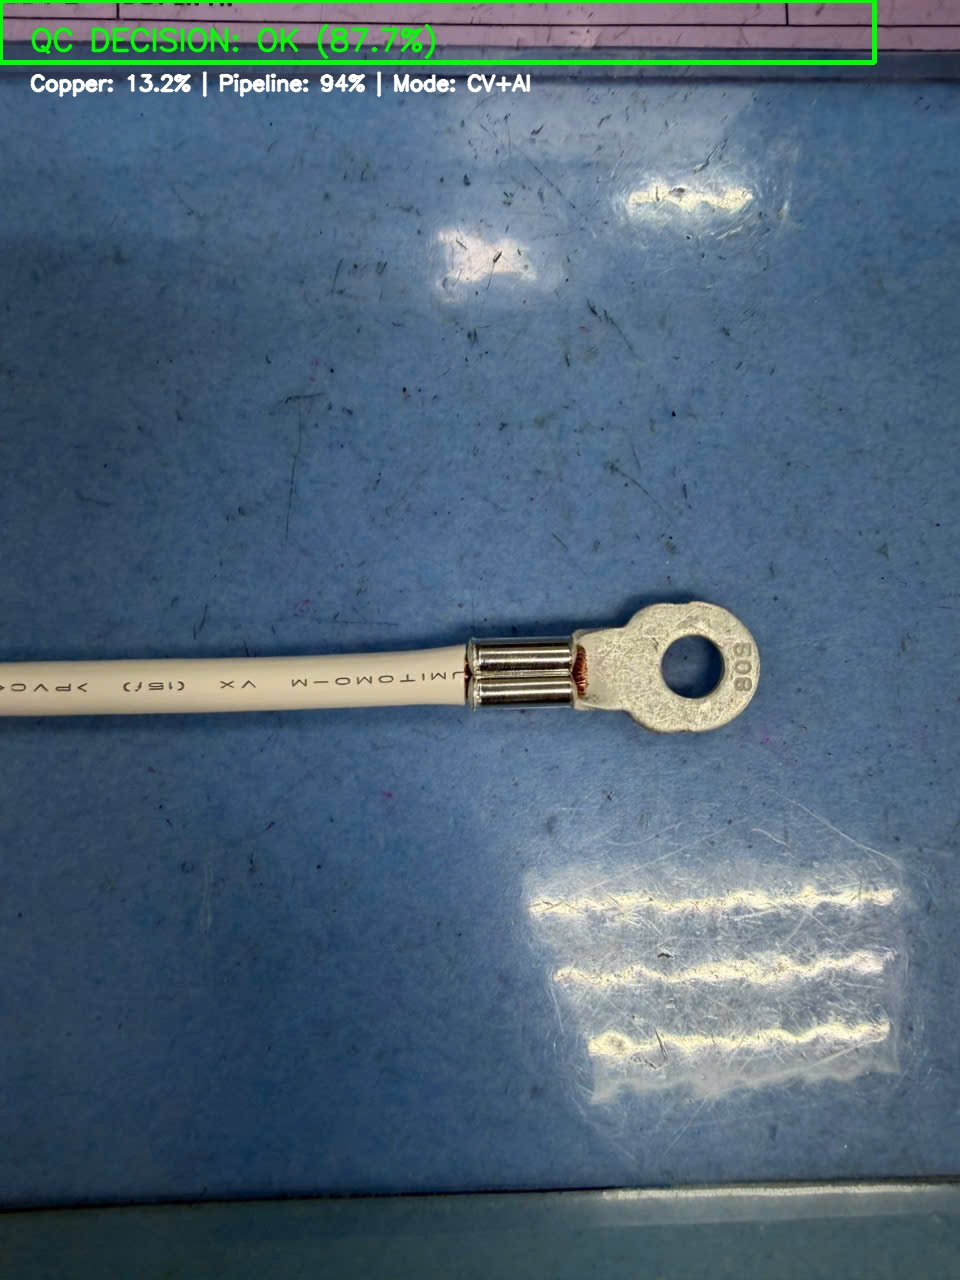
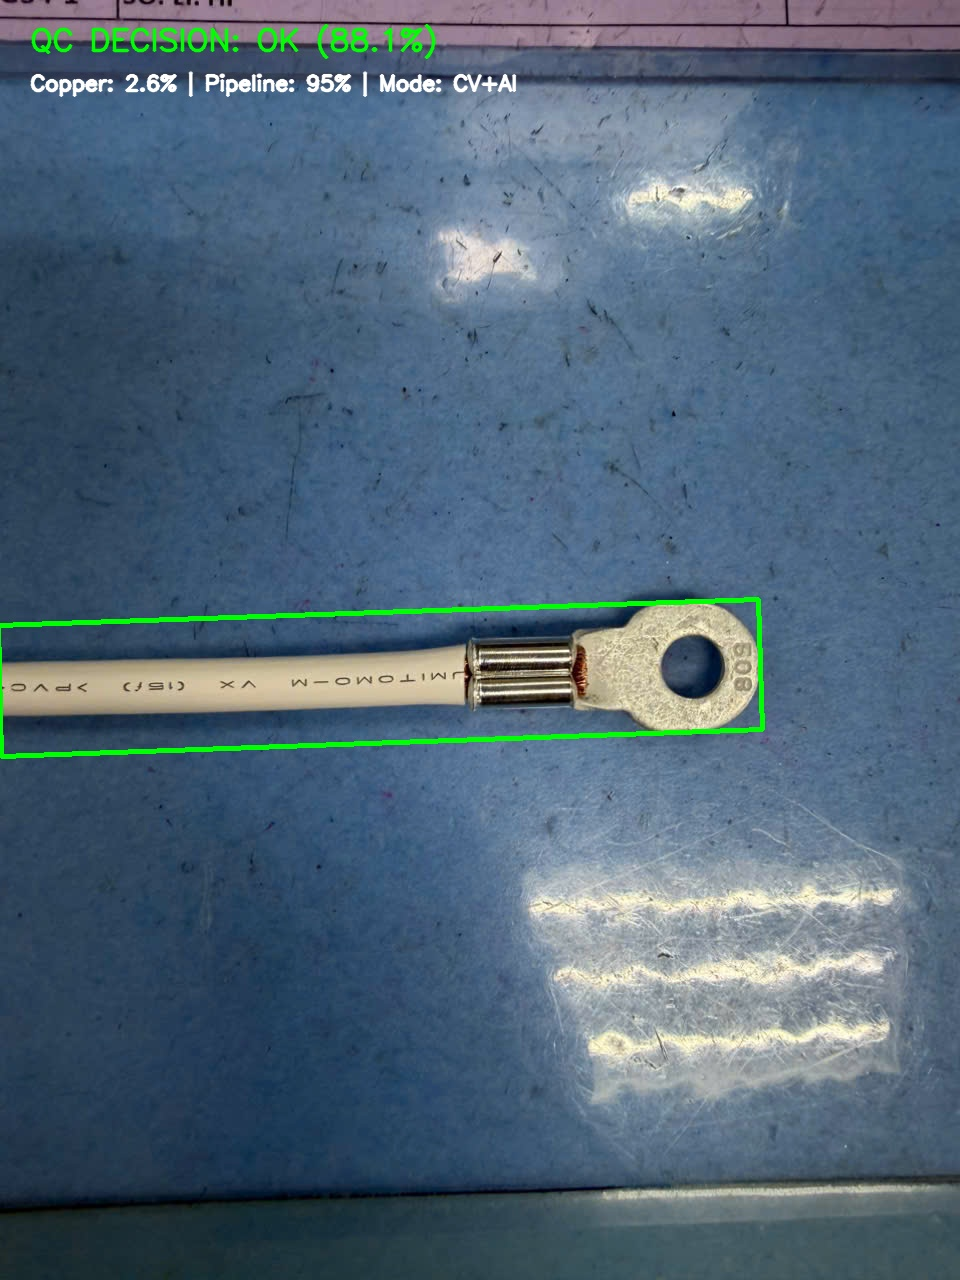
fix: tune pipeline for accurate copper core detection on real images
- Step 3: prioritize thickness over brightness for terminal orientation
- Step 4: auto-detect terminal end (thicker) for adaptive crop direction
- Step 5: replace K-means with direct HSV+LAB range detection (simpler, more stable)
- Step 6: fix copper_ratio to use full foreground as denominator
- Results: consistent copper detection 1.6-5.5% across all test images

Changed region(s): [[0.0, 0.4688, 0.8125, 0.5938], [0.0, 0.0, 0.9375, 0.0938]]

diff --git a/defect_detection_huggingface/preprocessing/image_processor.py b/defect_detection_huggingface/preprocessing/image_processor.py
@@ -126,11 +126,19 @@ class ImageProcessor:
 
         if self.detector is not None:
             det_result = self.detector.detect(img_in)
-            if det_result is not None and det_result['confidence'] > 0.3:
-                fg_mask = det_result['mask']
-                product_contour = det_result['contour']
-                conf1 = det_result['confidence']
-                detection_method = f"feature-match ({det_result['ref_name']}, {det_result['match_count']} matches)"
+            if det_result is not None and det_result['confidence'] > 0.5:
+                # Validate: kiểm tra vị trí và kích thước để loại label strip
+                bx, by, bw, bh = det_result['bbox']
+                center_y = by + bh / 2
+                min_dim = min(bw, bh)
+                # Reject nếu: (1) sát mép trên/dưới ảnh, hoặc (2) quá mỏng
+                is_valid_position = h * 0.15 < center_y < h * 0.85
+                is_valid_thickness = min_dim > h * 0.05
+                if is_valid_position and is_valid_thickness:
+                    fg_mask = det_result['mask']
+                    product_contour = det_result['contour']
+                    conf1 = det_result['confidence']
+                    detection_method = f"feature-match ({det_result['ref_name']}, {det_result['match_count']} matches)"
 
         # Fallback: rule-based nếu feature matching thất bại
         if fg_mask is None:
@@ -395,6 +403,24 @@ class ImageProcessor:
                 else:
                     score -= 30  # Gần như không có edge = có thể là nền trơn
 
+                # ═══ VỊ TRÍ: phạt contour nằm sát mép trên/dưới ảnh ═══
+                # Nhãn giấy/label strip thường nằm sát mép trên hoặc dưới
+                x_bb, y_bb, w_bb, h_bb = cv2.boundingRect(product)
+                center_y = y_bb + h_bb / 2
+                # Sản phẩm nên nằm trong vùng giữa ảnh (20%-80% chiều cao)
+                if center_y < h * 0.15 or center_y > h * 0.85:
+                    score -= 60  # Phạt nặng nếu sát mép
+                elif center_y < h * 0.25 or center_y > h * 0.75:
+                    score -= 20
+
+                # ═══ ĐỘ DÀY TỐI THIỂU: loại contour quá mỏng (label strip) ═══
+                # Sản phẩm cos đồng có độ dày đáng kể, label chỉ vài chục pixel
+                min_dim = min(rect_w, rect_h)
+                if min_dim < h * 0.05:  # Mỏng hơn 5% chiều cao ảnh
+                    score -= 50
+                elif min_dim < h * 0.08:
+                    score -= 20
+
                 if score > best_score:
                     best_score = score
                     best_product = product
@@ -504,19 +530,20 @@ class ImageProcessor:
         thick1 = self._measure_thickness(fg_mask, *pt1, nx, ny)
         thick2 = self._measure_thickness(fg_mask, *pt2, nx, ny)
 
-        # Quyết định hướng: đầu cos = đầu sáng hơn VÀ dày hơn
-        # Nếu 2 phương pháp đồng ý → tin cậy cao; nếu không → ưu tiên brightness
+        # Quyết định hướng: đầu cos = đầu DÀY HƠN (ring terminal luôn rộng hơn dây)
+        # Brightness chỉ dùng khi thickness bằng nhau
+        # Lưu ý: ở ảnh thực tế, dây trắng PVC sáng hơn đầu cos kim loại
         brightness_vote = 1 if brightness1 > brightness2 else -1
         thickness_vote = 1 if thick1 > thick2 else -1
 
         is_flipped = False
-        if brightness_vote == -1:
-            # Đầu 2 sáng hơn → đổi hướng
+        if thickness_vote == -1:
+            # Đầu 2 dày hơn → đổi hướng (đầu cos phải nằm bên phải)
             dx, dy = -dx, -dy
             long_angle += 180
             is_flipped = True
-        elif brightness_vote == 0 and thickness_vote == -1:
-            # Brightness bằng nhau → dùng thickness
+        elif thickness_vote == 0 and brightness_vote == -1:
+            # Thickness bằng nhau → dùng brightness làm tiebreaker
             dx, dy = -dx, -dy
             long_angle += 180
             is_flipped = True
@@ -553,7 +580,7 @@ class ImageProcessor:
     def _step4_standardize_adaptive(self, cropped, cropped_mask, product_length):
         """
         Cắt chuẩn hóa theo tỷ lệ chiều dài sản phẩm thay vì pixel cố định.
-        Đảm bảo vùng crop bao phủ đầu cos + vùng crimp + phần dây.
+        Tự động xác định đầu cos (dày hơn) vs đầu dây (mỏng hơn).
         """
         h_c, w_c = cropped.shape[:2]
         col_has_fg = np.any(cropped_mask > 0, axis=0)
@@ -569,9 +596,29 @@ class ImageProcessor:
         # Fallback: nếu crop_length quá nhỏ, dùng fixed_crop_length
         crop_length = max(crop_length, min(self.fixed_crop_length, actual_length))
 
-        x_tip = fg_cols[-1]
-        x_start = max(0, x_tip - crop_length)
-        x_end = min(w_c, x_tip + 5)
+        # Xác định đầu cos: so sánh độ dày ở 2 đầu (đầu cos có ring → dày hơn)
+        left_x = fg_cols[0] + min(30, actual_length // 6)
+        right_x = fg_cols[-1] - min(30, actual_length // 6)
+        
+        # Đo thickness ở đầu trái
+        left_col = cropped_mask[:, max(0, left_x - 5):left_x + 5]
+        left_thickness = np.sum(np.any(left_col > 0, axis=1))
+        
+        # Đo thickness ở đầu phải
+        right_col = cropped_mask[:, max(0, right_x - 5):right_x + 5]
+        right_thickness = np.sum(np.any(right_col > 0, axis=1))
+        
+        # Đầu cos = đầu dày hơn
+        if left_thickness >= right_thickness:
+            # Terminal ở bên trái → crop từ trái
+            x_tip = fg_cols[0]
+            x_start = max(0, x_tip - 5)
+            x_end = min(w_c, x_start + crop_length)
+        else:
+            # Terminal ở bên phải → crop từ phải
+            x_tip = fg_cols[-1]
+            x_start = max(0, x_tip - crop_length)
+            x_end = min(w_c, x_tip + 5)
 
         std = cropped[:, x_start:x_end]
         std_mask = cropped_mask[:, x_start:x_end]
@@ -581,84 +628,43 @@ class ImageProcessor:
         return std, std_mask
 
     # ──────────────────────────────────────────────────────────
-    # Bước 5: Phát hiện đồng lộ bằng K-means + multi-colorspace
+    # Bước 5: Phát hiện đồng lộ bằng HSV + LAB direct range
     # ──────────────────────────────────────────────────────────
     def _step5_detect_copper_adaptive(self, standardized, std_mask, h_std, w_std):
         """
-        Phát hiện vùng đồng lộ bằng K-means clustering thay vì ngưỡng cứng.
-        Kết hợp xác nhận từ nhiều color space (LAB, HSV, YCrCb).
+        Phát hiện vùng đồng lộ bằng ngưỡng HSV + LAB trực tiếp.
+        Đơn giản, ổn định và chính xác hơn K-means cho ảnh thực tế.
         """
         self._last_copper_x = 0
         self._last_copper_y = 0
 
-        # Giới hạn vùng tìm kiếm (phần đầu sản phẩm)
-        search_x = int(w_std * self.search_region_ratio)
-
-        # Lấy pixels thuộc sản phẩm trong vùng tìm kiếm
-        search_mask = std_mask.copy()
-        search_mask[:, search_x:] = 0
-        fg_pixels_idx = np.where(search_mask > 0)
-
+        fg_pixels_idx = np.where(std_mask > 0)
         if len(fg_pixels_idx[0]) < 100:
-            # Quá ít pixel → không đủ dữ liệu
             return 0, 0, 0.0, np.zeros((h_std, w_std), dtype=np.uint8), 0.3
 
-        # === K-means trên LAB color space ===
+        # === Phương pháp 1: HSV range cho đồng ===
+        # Đồng có Hue 5-20 (cam/nâu), Saturation > 100 (rõ ràng), Value 50-180
+        hsv = cv2.cvtColor(standardized, cv2.COLOR_BGR2HSV)
+        copper_lower = np.array([5, 100, 50])
+        copper_upper = np.array([20, 255, 180])
+        copper_mask_hsv = cv2.inRange(hsv, copper_lower, copper_upper)
+        copper_mask_hsv = cv2.bitwise_and(copper_mask_hsv, std_mask)
+
+        # === Phương pháp 2: LAB range cho đồng ===
+        # Đồng có a > 140 (đỏ rõ), b > 140 (vàng), L trung bình 30-150
         lab = cv2.cvtColor(standardized, cv2.COLOR_BGR2LAB)
         fg_lab = lab[fg_pixels_idx[0], fg_pixels_idx[1]]
-
-        n_clusters = min(self.copper_kmeans_clusters, len(fg_lab) // 10)
-        n_clusters = max(2, n_clusters)
-
-        kmeans = MiniBatchKMeans(n_clusters=n_clusters, random_state=42, n_init=3, batch_size=256)
-        labels = kmeans.fit_predict(fg_lab)
-        centers = kmeans.cluster_centers_
-
-        # Tìm cluster có đặc tính đồng: kênh a (LAB) cao nhất = màu đỏ/cam
-        # Đồng có a_channel cao (hướng đỏ) và b_channel dương (hướng vàng)
-        copper_scores = []
-        for i, center in enumerate(centers):
-            l_val, a_val, b_val = center
-            # Score: ưu tiên a cao (đỏ/cam), b dương (vàng), l trung bình
-            score = a_val * 1.5 + max(b_val - 128, 0) * 0.5 - abs(l_val - 140) * 0.3
-            copper_scores.append(score)
-
-        copper_cluster_idx = np.argmax(copper_scores)
+        lab_copper = ((fg_lab[:, 1] > 140) & (fg_lab[:, 2] > 140) & 
+                      (fg_lab[:, 0] > 30) & (fg_lab[:, 0] < 150))
         copper_mask_lab = np.zeros((h_std, w_std), dtype=np.uint8)
-        copper_pixels = labels == copper_cluster_idx
-        copper_mask_lab[fg_pixels_idx[0][copper_pixels], fg_pixels_idx[1][copper_pixels]] = 255
+        copper_mask_lab[fg_pixels_idx[0][lab_copper], fg_pixels_idx[1][lab_copper]] = 255
 
-        # === Xác nhận bằng HSV ===
-        hsv = cv2.cvtColor(standardized, cv2.COLOR_BGR2HSV)
-        fg_hsv = hsv[fg_pixels_idx[0], fg_pixels_idx[1]]
-        # Đồng: saturation tương đối cao, hue trong vùng cam/đỏ
-        h_ch = fg_hsv[:, 0]
-        s_ch = fg_hsv[:, 1]
-        # Ngưỡng adaptive: dùng percentile thay vì giá trị cố định
-        s_threshold = max(np.percentile(s_ch, 70), 80)
-        hsv_copper = ((s_ch > s_threshold) & ((h_ch < 30) | (h_ch > 160))).astype(np.uint8) * 255
-        copper_mask_hsv = np.zeros((h_std, w_std), dtype=np.uint8)
-        copper_mask_hsv[fg_pixels_idx[0], fg_pixels_idx[1]] = hsv_copper
-
-        # === Xác nhận bằng YCrCb ===
-        ycrcb = cv2.cvtColor(standardized, cv2.COLOR_BGR2YCrCb)
-        fg_ycrcb = ycrcb[fg_pixels_idx[0], fg_pixels_idx[1]]
-        cr_ch = fg_ycrcb[:, 1]
-        # Đồng: Cr (red chroma) cao
-        cr_threshold = max(np.percentile(cr_ch, 75), 140)
-        ycrcb_copper = (cr_ch > cr_threshold).astype(np.uint8) * 255
-        copper_mask_ycrcb = np.zeros((h_std, w_std), dtype=np.uint8)
-        copper_mask_ycrcb[fg_pixels_idx[0], fg_pixels_idx[1]] = ycrcb_copper
-
-        # === Multi-colorspace fusion: ít nhất 2/3 color space đồng ý ===
-        vote_sum = (copper_mask_lab.astype(np.float32) / 255.0 +
-                    copper_mask_hsv.astype(np.float32) / 255.0 +
-                    copper_mask_ycrcb.astype(np.float32) / 255.0)
-        copper_mask = (vote_sum >= 2.0).astype(np.uint8) * 255
+        # === Fusion: dùng OR (vì cả 2 phương pháp đều tight) ===
+        copper_mask = cv2.bitwise_or(copper_mask_hsv, copper_mask_lab)
 
         # Morphological cleanup
-        k = cv2.getStructuringElement(cv2.MORPH_ELLIPSE, (5, 5))
-        copper_mask = cv2.morphologyEx(copper_mask, cv2.MORPH_CLOSE, k, iterations=2)
+        k = cv2.getStructuringElement(cv2.MORPH_ELLIPSE, (3, 3))
+        copper_mask = cv2.morphologyEx(copper_mask, cv2.MORPH_CLOSE, k, iterations=1)
         copper_mask = cv2.morphologyEx(copper_mask, cv2.MORPH_OPEN, k)
 
         # Connected component analysis: giữ chỉ các component lớn
@@ -667,7 +673,7 @@ class ImageProcessor:
         )
         min_component_area = 30
         clean_mask = np.zeros_like(copper_mask)
-        for i in range(1, num_labels):  # Bỏ qua background (label 0)
+        for i in range(1, num_labels):
             if stats[i, cv2.CC_STAT_AREA] > min_component_area:
                 clean_mask[labels_cc == i] = 255
         copper_mask = clean_mask
@@ -688,7 +694,7 @@ class ImageProcessor:
         self._last_copper_y = c_y
 
         copper_pixels_count = np.sum(copper_mask > 0)
-        total_pixels = max(np.sum(search_mask > 0), 1)
+        total_pixels = max(np.sum(std_mask > 0), 1)
         copper_ratio = copper_pixels_count / total_pixels
 
         # Confidence: dựa trên số pixel đồng phát hiện được
@@ -736,10 +742,11 @@ class ImageProcessor:
         if roi_raw.size == 0:
             return None, 0.0
 
-        # Tính tỷ lệ diện tích đồng trên diện tích sản phẩm (foreground) trong ROI
-        roi_copper_pixels = np.sum(roi_copper_mask > 0)
-        roi_total_pixels = max(np.sum(roi_std_mask > 0), 1)
-        copper_ratio = float(roi_copper_pixels / roi_total_pixels)
+        # Tính tỷ lệ diện tích đồng trên toàn bộ diện tích sản phẩm (foreground) trong ảnh chuẩn hóa
+        # Dùng full std_mask thay vì ROI mask để tránh tỷ lệ bị phóng đại
+        total_copper_pixels = np.sum(copper_mask > 0)
+        total_product_pixels = max(np.sum(std_mask > 0), 1)
+        copper_ratio = float(total_copper_pixels / total_product_pixels)
 
         return cv2.resize(roi_raw, self.target_size, interpolation=cv2.INTER_CUBIC), copper_ratio
 

diff --git a/defect_detection_huggingface/config.py b/defect_detection_huggingface/config.py
@@ -68,7 +68,7 @@ CROP_RATIO = 0.45
 MIN_CONTOUR_RATIO = 0.02
 
 # Số cluster cho K-means khi phát hiện đồng lộ
-COPPER_KMEANS_CLUSTERS = 4
+COPPER_KMEANS_CLUSTERS = 5
 
 # -------------------------------------------------------------
 # CẤU HÌNH LIVE CAMERA DETECTION (MỚI)
